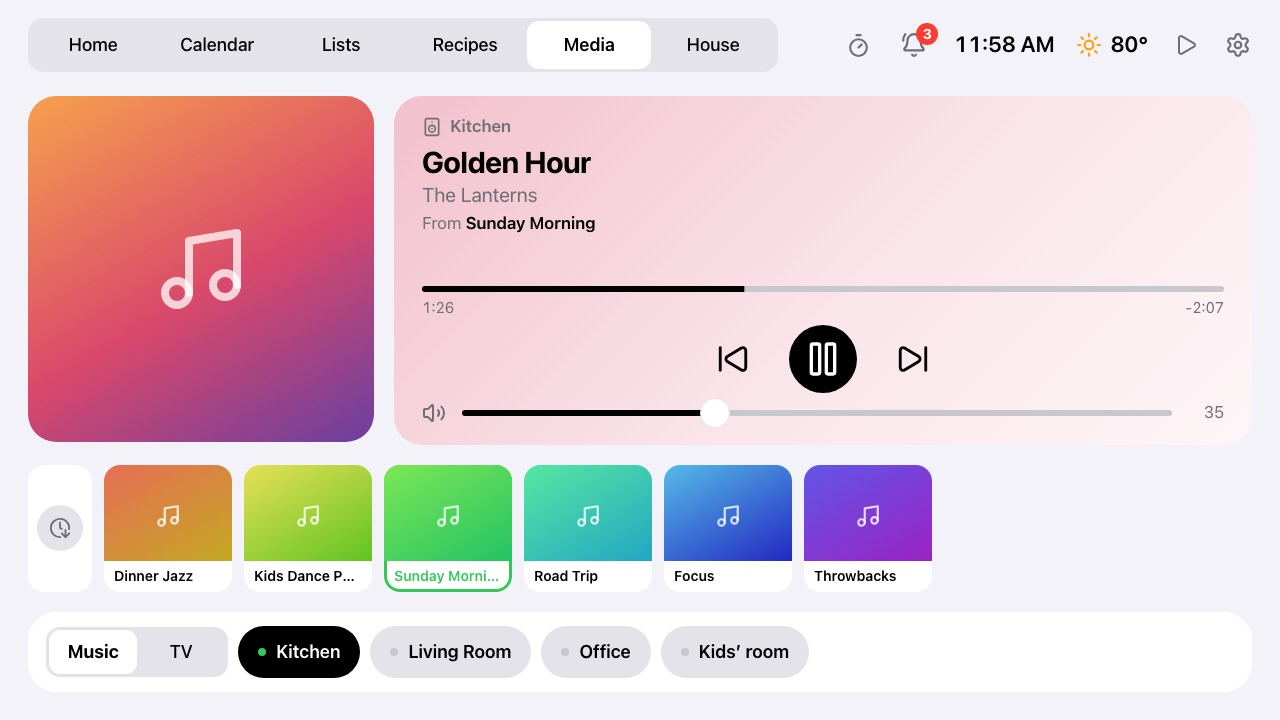
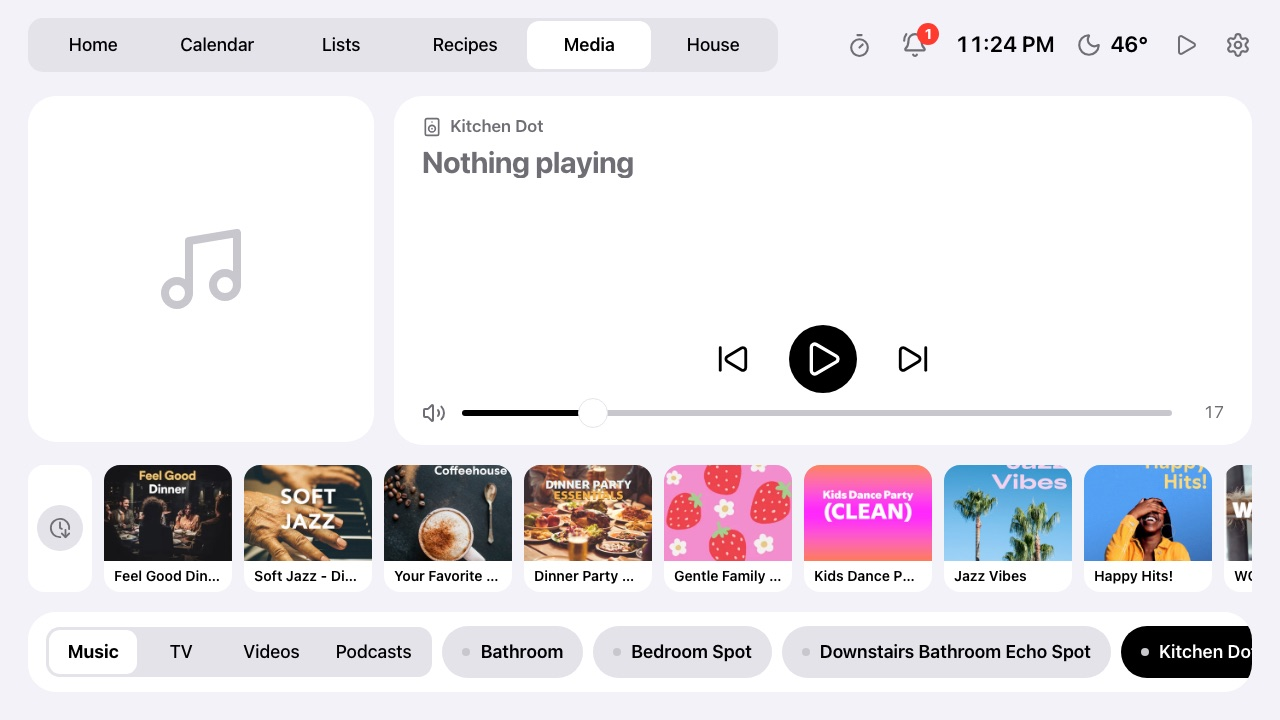
README: new screenshots, the iPhone app, and features since
Screenshots retaken in demo mode with Home Assistant connected, so House and
Media show the realistic demo (made-up names, stock camera pictures, public
playlists); new ones for Videos, Podcasts and the weather radar; the notice
banner now shows its time. "What this fork adds" gains the iPhone app and the
features added since (podcasts, groceries for the week, event maps, #quiet,
the Alexa log, album videos), and the demo-mode note says what's real.

Claude-Session: claude --resume 8ada97f6-6e94-4d2f-928b-faf4e0c7a67c

diff --git a/README.md b/README.md
@@ -22,14 +22,19 @@ lists other frames that work.
 | --- | --- | --- |
 | ![Recipe page](docs/images/recipe-page-light.jpg) | ![Media: music](docs/images/music-light.jpg) | ![House](docs/images/house-light.jpg) |
 
-| Weather details (tap the weather) |
-| --- |
-| ![Weather details](docs/images/weather-light.jpg) |
+| Media (videos for the kids) | Media (podcasts) | Weather (tap it): rain radar |
+| --- | --- | --- |
+| ![Media: videos](docs/images/videos-light.jpg) | ![Media: podcasts](docs/images/podcasts-light.jpg) | ![Weather radar](docs/images/weather-light.jpg) |
 
-Screenshots use the built-in demo mode (Settings → About → Demo mode, or `?demo=on`), so all data shown is
-invented, apart from the weather (the slideshow shows stock photos from [Lorem Picsum](https://picsum.photos)). It's also handy for showing the frame to people without your own
-calendar and lists on it. `?tab=`, `?open=<recipe id>`, `?explore=<category>`, `?timer=Pasta:7`,
-`?weather=<day>` and `?settings=<tab>` set up a particular screen.
+Screenshots use the built-in demo mode (Settings → About → Demo mode, or `?demo=on`): the calendar,
+lists, rotations and notices are invented, the meal plan is made from Paprika recipes, and the slideshow
+shows stock photos from [Lorem Picsum](https://picsum.photos). With Home Assistant connected, House and
+Media show the real devices and speakers under made-up names (`DEMO_NAMES`, so "Mom" rather than a
+real name), stock camera pictures and public playlists, and the radar is centred on Kansas City rather
+than home. The weather is real. It's also handy for showing the frame to people without your own
+calendar and lists on it. `?tab=`, `?media=tv|videos|podcasts`, `?open=<recipe id>`,
+`?explore=<category>`, `?timer=Pasta:7`, `?weather=<day>` (with `&radar` for the radar) and
+`?settings=<tab>` set up a particular screen.
 
 ## Thanks
 
@@ -58,31 +63,37 @@ Each feature links to its page in [`docs/`](docs/), which has the setup and the 
 | --- | --- | --- |
 | **[House tab](docs/house.md)** | New | Mirrors one HA dashboard, live: tap to toggle, thermostat setpoints tinted by heating/cooling, HA-rendered markdown, camera pictures that refresh on a schedule, and a camera full screen on tap (live video where the frame can play it). An unlock PIN. |
 | **[Doorbell pop-up](docs/doorbell.md)** | New | A ring fills the screen with that doorbell's camera, live video or the latest snapshot, for 90 seconds. Found automatically. |
-| **[Notices](docs/notices.md)** | New | HA automations post banners such as "Garage freezer is 18°F" that clear themselves; a bell counts new ones and keeps the last 24 hours. Blueprints for temperature limits and thermostat changes. |
-| **[Announcements](docs/announcements.md)** | New | Said out loud on a speaker from HA (an Echo's Announce, or text-to-speech): event reminders for the calendars you pick ("In 30 minutes: Swim lesson"), red alerts such as a leak at a louder volume and at night, optionally orange ones, and agent messages. Off until turned on. |
+| **[Notices](docs/notices.md)** | New | HA automations post banners such as "Garage freezer is 18°F" (with the time each started) that clear themselves; a bell counts the ones still on and keeps the last 24 hours. Blueprints for temperature limits and thermostat changes. |
+| **[Announcements](docs/announcements.md)** | New | Said out loud on a speaker from HA (an Echo's Announce, or text-to-speech): event reminders for the calendars you pick ("In 30 minutes: Swim lesson"), red alerts such as a leak at a louder volume and at night, optionally orange ones, and agent messages. Nothing during night hours, and `#quiet` in an event keeps it from being said. Off until turned on. |
 | **[Presence](docs/presence.md)** | Updated | With motion sensors in an HA area (the kitchen, say), the clock screen waits until nobody has been seen for a while, and goes away when someone walks in. |
-| **[Media](docs/music.md)** | Updated | Spotify through HA: Spotify Connect speakers, every playlist, what's playing from, Up next, Now Playing on Home and every tab's top bar, controls that answer at once, and starting from silence on an Echo. **TV**: any TV in HA, with what's playing, controls, its apps and an on-screen remote. **Videos**: chosen YouTube videos and playlists as big thumbnails for kids, played full screen. |
+| **[Media](docs/music.md)** | Updated | Spotify through HA: Spotify Connect speakers, every playlist, what's playing from, Up next, Now Playing on Home and every tab's top bar, controls that answer at once, and starting from silence on an Echo. **TV**: any TV in HA, with what's playing, controls, its apps and an on-screen remote. **Videos**: chosen YouTube videos and playlists as big thumbnails for kids, played full screen. **[Podcasts](docs/music.md#podcasts-apple-podcasts-through-the-mac)**: Apple Podcasts through a Mac at home, with a Continue row of half-played episodes and rows of someone else's shows, played on the frame or on an Echo. |
 
 ### In the kitchen
 
 | Feature | | What it does |
 | --- | --- | --- |
 | **[Paprika recipes](docs/recipes.md)** | New | Your library, synced: categories, search, an A–Z index, notes, nutrition and full-size photos. **Save to Paprika** from Explore (recipes already there are marked). A script fixes recipes whose imports only got a thumbnail, in Paprika itself. |
-| **Meal plan** | New | Paprika's planned meals on Home ("Dinner" at the top of Today) and a Meals view for the week. |
+| **Meal plan** | New | Paprika's planned meals on Home ("Dinner" at the top of Today) and a Meals view for the week, which updates when the plan changes. **[Groceries for the week](docs/recipes.md#groceries-for-the-week)**: one shopping list from the week's planned recipes, combined and added up, staples and what's already on the list left out, to check over before adding (an open-weight model on Workers AI, free). |
 | **[Rotations](docs/rotations.md)** | New | Who's up early with the kids, whose turn for bedtime, on Home's Today card. |
 | **[Timers](docs/timers.md)** | New | Tap a time, then a name (Pasta, Oven). Times in recipe directions are buttons. A chip on every screen, then a chime, a full-screen alert and an Echo announcement. |
 | **[Lists](docs/lists.md)** | Updated | Groceries and Tasks in one tab, and side by side on Home. Each from Todoist or, through a Mac at home, Apple Reminders (Siri, the watch and the phone, two-way within seconds), with priorities, due times, aisles and flags. Tap an item to edit it; ticking one gives a few seconds to undo. |
-| **[Alexa](docs/alexa.md)** | New | Your own private Alexa skill: "Alexa, ask Kitchen Frame to add eggs to groceries", show a tab, start the slideshow, play a group of videos, what's for dinner, or the rundown of the day. |
+| **[Alexa](docs/alexa.md)** | New | Your own private Alexa skill: "Alexa, ask Kitchen Frame to add eggs to groceries" (the frame then shows the list), show a tab, start the slideshow, play a group of videos or a podcast on the Echo, what's for dinner, or the rundown of the day. What each Echo heard and what the skill did are logged on the status page. |
 
 ### At a glance
 
 | Feature | | What it does |
 | --- | --- | --- |
 | **[Weather](docs/weather.md)** | Updated | The UV right now on Home (for sunscreen) and a three-day forecast. Tap for a day's sheet: the National Weather Service forecast text (US), alerts, hours ahead, wind, the day's peak UV, sun times, and a **radar** of the last hour and the next two. |
-| **[Calendar](docs/calendar.md)** | Updated | Upcoming grouped by day, colours and names per calendar, tap an event for its details and notes on the calendars you choose, hide any calendar per frame, and `#private` to keep an event off the frame. |
-| **Settings** | Updated | In tabs (Display, Announcements, Home, About), backed up to the Worker (after a reset the frame takes its choices back), with the version and build time on About. |
-| **Clock screen** | Updated | Never while a recipe is open or a timer is running; 30 minutes by default (up to two hours); a red night clock. Classic iCloud shared album links work for the slideshow, and album videos show as a still. |
-| **[Status page](docs/frame.md#status-page-optional)** | New | A private page behind GitHub sign-in: is the frame online and what is it running, a day's timeline, its event log, and the health of everything behind the dashboard. |
+| **[Calendar](docs/calendar.md)** | Updated | Upcoming grouped by day, colours and names per calendar, tap an event for its details, a map of where it is, and notes on the calendars you choose, hide any calendar per frame, `#private` to keep an event off the frame, and `#quiet` to show it but never announce it. |
+| **Settings** | Updated | In tabs (Display, Announcements, Home, About), backed up to the Worker (after a reset the frame takes its choices back), with the version and build time on About, and a QR code to pair the iPhone app. Demo mode shows invented calendars and lists, and with Home Assistant connected, the real House and Media under made-up names. |
+| **Clock screen** | Updated | Never while a recipe is open or a timer is running; 30 minutes by default (up to two hours); a red night clock that brightens a little when someone's in the room. Classic iCloud shared album links work for the slideshow, and through the Mac, album videos play in it and photos show when and where they were taken. |
+| **[Status page](docs/frame.md#status-page-optional)** | New | A private page behind GitHub sign-in: is the frame online and what is it running, a day's timeline, its event log, the Alexa log, and the health of everything behind the dashboard. |
+
+### On your phone
+
+| Feature | | What it does |
+| --- | --- | --- |
+| **[iPhone app](ios/README.md)** | New | Share a photo or video from Photos to the frame, full screen with pinch-to-zoom and when and where it was taken, or a YouTube link to play there. A remote to show any screen, start the slideshow or wake it. Pairs by scanning a QR code on the frame; built with Xcode, not from the App Store. |
 
 ## How it fits together
 
@@ -155,10 +166,10 @@ Each part has a short README of its own: what it is, when you need it, how to bu
   ([`ops/`](dashboard/ops)) and the day-to-day [`scripts/`](dashboard/scripts). Always needed.
 - [`kiosk/`](kiosk/README.md): the Android app the frame boots into (one full-screen WebView). For an
   Android frame.
-- [`ios/`](ios/README.md): the optional iPhone app, a remote for the frame. Built with Xcode; not on
-  the App Store.
-- [`bridge/mac/`](bridge/mac/README.md): the optional Mac bridge, for Apple Reminders lists, and
-  iCloud calendars (with alerts) and a shared album without public links
+- [`ios/`](ios/README.md): the optional iPhone app: share photos, videos and YouTube links to the
+  frame, and a remote for it. Built with Xcode; not on the App Store.
+- [`bridge/mac/`](bridge/mac/README.md): the optional Mac bridge, for Apple Reminders lists, Apple
+  Podcasts, and iCloud calendars (with alerts) and a shared album without public links
   ([docs/mac-bridge.md](docs/mac-bridge.md)).
 - [`bridge/camera-relay/`](bridge/camera-relay/README.md): the optional camera relay for a Mac, for
   cameras too big for your frame's video decoder.
@@ -212,7 +223,8 @@ month. Nothing here costs money beyond the frame.
 
 The Worker merges any number of calendar feeds into one agenda (Google, iCloud, Fastmail,
 Outlook/Exchange, or a subscribed .ics link such as a team's schedule); name and colour each one,
-hide any of them per frame, and `#private` in an event keeps it off the frame. Choose which
+hide any of them per frame; `#private` in an event keeps it off the frame, and `#quiet` shows it but
+never announces it. Choose which
 calendars open when an event is tapped (`CALENDAR_DETAILS`): those show the day and time, the
 location with a small map, and the event's notes; notes from other calendars are never stored.
 [docs/calendar.md](docs/calendar.md) has how to get each kind of link, every setting, privacy
@@ -238,7 +250,9 @@ Four views: **Meals** (the Paprika meal plan), **Paprika** (your library, synced
 **Explore** (TheMealDB) and **Saved**. With a Paprika account, **Save to Paprika** on an Explore
 recipe puts it in your library, photo included, under your matching category; recipes already there
 wear a badge in Explore and say **In Paprika** on their page, and the Worker won't save a duplicate.
-Recipes agents send go to Paprika too. Any recipe's ingredients can go to Groceries. Paprika has no
+Recipes agents send go to Paprika too. Any recipe's ingredients can go to Groceries, and
+**Groceries for the week** makes one list from all the week's planned recipes (combined and added up,
+pantry staples and what's already on the list left out) to check over before adding. Paprika has no
 official API, so the sync uses the undocumented one its apps use; a change there stops the sync, not
 the frame. [docs/recipes.md](docs/recipes.md).
 
@@ -259,7 +273,7 @@ camera that sends more than your frame decodes can go through an optional relay 
 shrinks it; Ring cameras have extra steps (ring-mqtt). Setup, what each device does,
 and the camera measurements are in [docs/house.md](docs/house.md).
 
-### Media: music, TV and videos
+### Media: music, TV, videos and podcasts
 
 **Music** is Spotify on the house's speakers through Home Assistant, with controls that answer at
 once and a Now Playing card everywhere. **TV** is any TV HA knows: what's playing, controls, apps and
@@ -269,6 +283,9 @@ connection for every playlist) in [docs/music.md](docs/music.md).
 
 **Videos** shows chosen YouTube videos and playlists (`YOUTUBE_VIDEOS`) as big thumbnails a kid can
 tap, played full screen in YouTube's own player; it needs no Home Assistant. [docs/music.md](docs/music.md#videos-youtube-for-the-kids).
+**Podcasts** are your Apple Podcasts library through a Mac at home, half-played episodes first, played
+on the frame or on an Echo through the Alexa skill.
+[docs/music.md](docs/music.md#podcasts-apple-podcasts-through-the-mac).
 
 ### Timers
 
@@ -320,6 +337,13 @@ to add eggs to groceries", "…show the calendar", "…play Trucks videos", "…
 
 AI agents can post full-screen messages to the frame with their own token, and have them read
 aloud. [docs/messages.md](docs/messages.md).
+
+### iPhone app
+
+A small app built with Xcode (a free Apple account is enough for your own phone). From the share sheet,
+a photo or video shows full screen on the frame (pinch to zoom, with when and where it was taken),
+and a YouTube link plays there. It's also a remote for showing any screen, starting the slideshow or
+waking the frame. It pairs by scanning a QR code in the frame's Settings. [ios/README.md](ios/README.md).
 
 ## The frame
 
